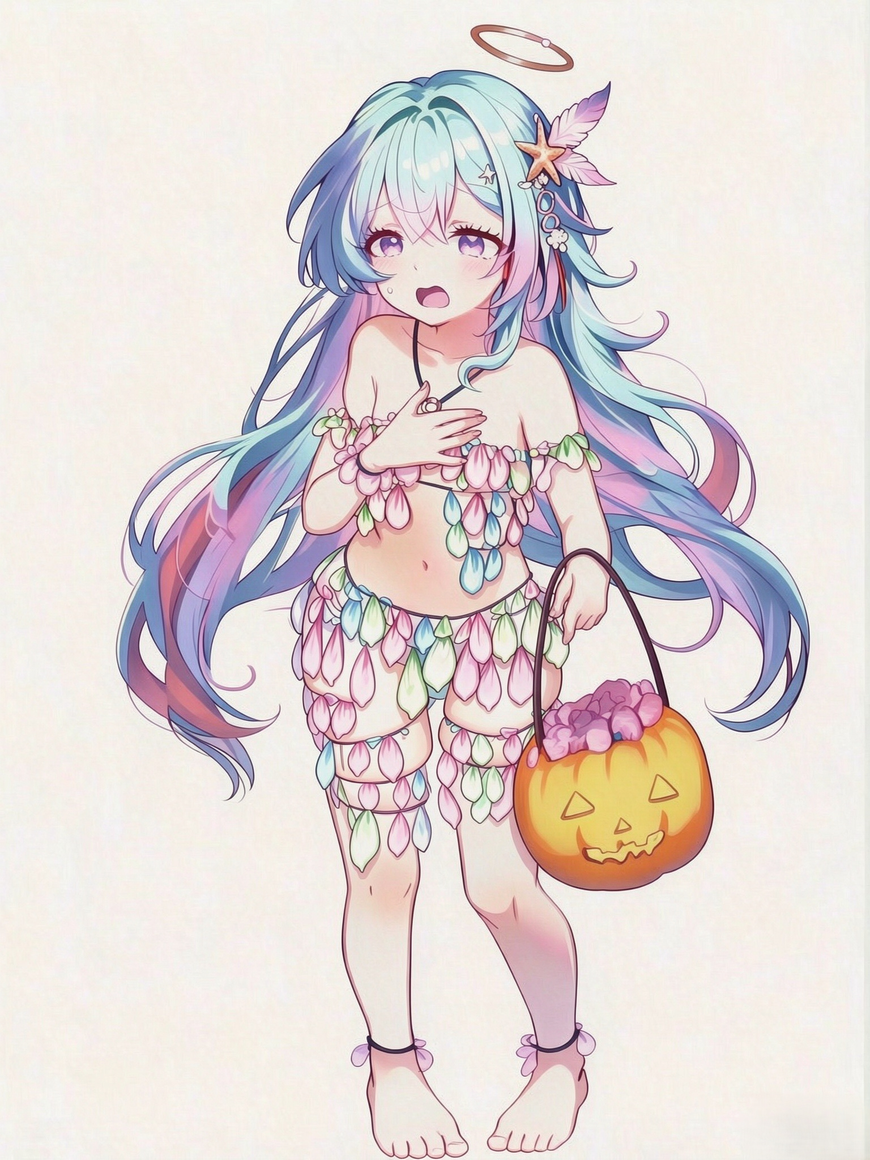
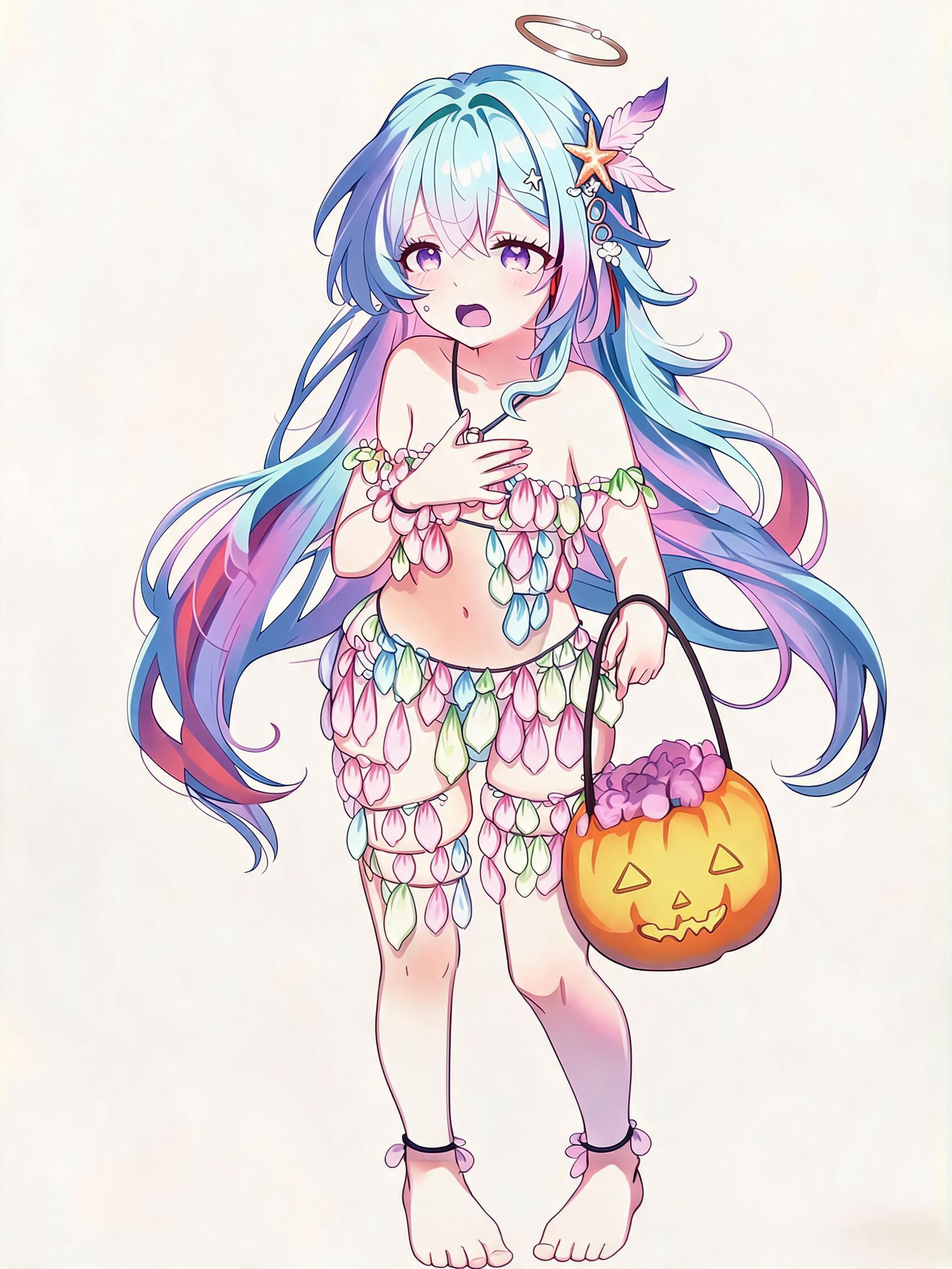
chore: 同步 preprocess GPU 脚本改名 preprocess-v7 -gpu.py 去空格为 preprocess-v7-gpu.py

diff --git a/preprocess-v7-gpu.py b/preprocess-v7-gpu.py
@@ -1,0 +1,245 @@
+"""
+GPU 抠白底：assets-raw/ → taozi-pet/incoming-assets/（透明 PNG，默认全量）
+
+格式的单一契约：
+    <任意格式>  ──rename──▶  <state>-NN.jpg  ──preprocess──▶  <state>-NN.png
+
+输入支持 png / jpg / jpeg / webp / bmp（PIL 按内容解码，扩展名不必可信）；
+输出恒为透明 png —— 抠图结果带 alpha 通道，只有 png 存得下。
+上游 rename-assets.py 已把源收敛为 .jpg，所以这里吃到的通常就是 jpg。
+
+用 BiRefNet 在 CUDA 上推理生成基础 alpha，再叠加三步后处理保证 QA 兼容：
+  1) 保护色（肤色 / 南瓜色，含 2px 膨胀）
+  2) 保留主体连通块 + 可信的分离部件（头顶光环）
+  3) 清理最边缘 2px 前景
+
+光环浮在头顶、与身体不相连，面积只有主体的 0.5%~0.7% 且位于画面顶部，
+按"只留最大块"的朴素规则会被整块删掉，故第 2 步用「面积 + 置信度」双闸门
+把它与噪点区分开（详见 keep_largest_connected 注释）。
+
+保护色对肤色区做 2px 膨胀，可挽回手部/高光边缘的浅色像素，
+避免 happy/starfish-wave 等挥手状态的手颜色被“洗掉”。
+无 GPU 时自动退 CPU（也可 --cpu 强制）。
+
+用法:
+  python preprocess-v7-gpu.py              # 处理 assets-raw 全部帧
+  python preprocess-v7-gpu.py walk-01.jpg  # 只处理指定文件
+  python preprocess-v7-gpu.py --states walk sleep   # 只处理指定状态
+  python preprocess-v7-gpu.py --cpu        # 强制 CPU 推理
+
+环境: conda activate my_project（torch + CUDA）
+模型: ZhengPeng7/BiRefNet
+"""
+import os
+# 国内环境：让 HF 下载走镜像，避免 huggingface.co 直连超时
+os.environ.setdefault('HF_ENDPOINT', 'https://hf-mirror.com')
+
+import numpy as np
+from PIL import Image
+from scipy import ndimage
+
+INPUT_DIR = r'D:\Documents\Doubao\chats\2026-08-12\new-chat\assets-raw'
+OUTPUT_DIR = r'D:\Documents\Doubao\chats\2026-08-12\new-chat\taozi-pet\incoming-assets'
+
+# 可识别的输入格式（源导出常是 jpg；扩展名不可信，PIL 按内容解码）
+IMG_EXTS = ('.png', '.jpg', '.jpeg', '.webp', '.bmp')
+
+BG_THRESHOLD = 28
+# BiRefNet 在 1024 边长上训练；大图等比缩放到此尺寸推理，再还原
+MODEL_SIZE = 1024
+
+# ---- GPU 模型（懒加载单例，进程内只加载一次）----
+_MODEL = None
+
+def get_model():
+    """加载 BiRefNet 到 CUDA（无 GPU 自动退 CPU）。"""
+    global _MODEL
+    if _MODEL is not None:
+        return _MODEL
+    import torch
+    from transformers import AutoModelForImageSegmentation
+    device = 'cuda' if torch.cuda.is_available() else 'cpu'
+    if device == 'cuda':
+        cap = torch.cuda.get_device_properties(0).total_memory / 1024**3
+        print(f'  [model] loading BiRefNet on cuda ({torch.cuda.get_device_name(0)}, {cap:.1f}GB) ...')
+    else:
+        print('  [model] loading BiRefNet on CPU (no CUDA) ...')
+    model = AutoModelForImageSegmentation.from_pretrained(
+        'ZhengPeng7/BiRefNet', trust_remote_code=True
+    )
+    model.to(device)
+    model.float()  # 权重可能以 fp16 载入，统一转 fp32 避免 half/float 不匹配
+    model.eval()
+    _MODEL = (model, device)
+    return _MODEL
+
+def rmbg_alpha(rgba_pil):
+    """返回与原图同尺寸的 uint8 alpha (0-255)，前景=255。GPU 推理。"""
+    import torch
+    from torchvision.transforms.functional import to_tensor, resize
+    model, device = get_model()
+    img = rgba_pil.convert('RGB')
+    w, h = img.size
+    # 等比缩放到模型输入（最长边 1024）
+    if max(w, h) > MODEL_SIZE:
+        scale = MODEL_SIZE / max(w, h)
+        tw, th = int(round(w * scale)), int(round(h * scale))
+    else:
+        tw, th = w, h
+    inp = to_tensor(resize(img, [th, tw])).unsqueeze(0).to(device)
+    with torch.no_grad():
+        preds = model(inp)
+    out = preds[-1] if isinstance(preds, (list, tuple)) else preds
+    # 压到 2D：[B,1,H,W] -> [H,W]
+    while out.dim() > 2:
+        out = out[0]
+    prob = torch.sigmoid(out).cpu().float().numpy().astype(np.float32)
+    # 还原到原图尺寸
+    prob_img = Image.fromarray((prob * 255).clip(0, 255).astype('uint8')).resize((w, h), Image.BILINEAR)
+    return np.asarray(prob_img).astype(np.uint8)
+
+
+# ---- v7 后处理（保 QA 兼容）----
+def get_protected_mask(arr, alpha):
+    r = arr[:, :, 0].astype(int)
+    g = arr[:, :, 1].astype(int)
+    b = arr[:, :, 2].astype(int)
+    # 肤色保护：覆盖偏粉/浅的肤色高光，避免手部阴影或浅色手指被 BiRefNet 低置信删除
+    skin = (r > 150) & (g > 110) & (b > 70) & (r >= g) & (g >= b) & ((r - b) > 1)
+    pumpkin = (r > 170) & (g > 110) & (b < 140) & ((r - b) > 70)
+    return (skin | pumpkin) & (alpha > 16)
+
+# 分离部件（头顶光环等）保留阈值。
+# 实测 8 个状态：光环 面积占全图 0.148%~0.266%、平均置信度 187~196；
+#               噪点 面积占全图 ≤0.026%、平均置信度 ≤93。
+# 两个闸门各有约 2 倍余量，可稳定区分「小而可信的部件」与「噪点」。
+PART_AREA_RATIO = 0.001   # 分离部件最小面积（占全图比例）
+PART_MEAN_ALPHA = 150     # 分离部件最低平均置信度
+
+
+def keep_largest_connected(alpha):
+    """保留主体连通块，以及可信的分离部件（如头顶光环）。
+
+    命中任一条件即保留：
+      1) 面积最大的块 —— 主体
+      2) 面积 > 主体 30% 且距画面中心 < 0.4h —— 与主体断开的大部件
+      3) 面积 ≥ 全图 0.1% 且平均置信度 ≥ 150 —— 小而可信的分离部件（光环）
+
+    第 3 条专为光环而设：它浮在头顶、与身体不相连，面积仅主体的 0.5%~0.7%，
+    位置又在画面顶部（距中心约 0.47h > 0.4h），按旧规则两条判据同时不满足，
+    会被当成噪声整块删除。面积用「占全图比例」而非绝对像素，兼顾
+    1536×2048 与 1680×2240 两种源分辨率。
+    """
+    h, w = alpha.shape
+    fg = alpha > 16
+    labeled, num = ndimage.label(fg)
+    if num == 0:
+        return alpha
+    labs = range(1, num + 1)
+    sizes = ndimage.sum(fg, labeled, labs)
+    centers = ndimage.center_of_mass(fg, labeled, labs)
+    means = ndimage.mean(alpha, labeled, labs)
+    max_area = float(sizes.max())
+    min_area = h * w * PART_AREA_RATIO
+    keep = np.zeros((h, w), dtype=bool)
+    for lab in labs:
+        area = float(sizes[lab - 1])
+        if area == max_area:
+            keep |= (labeled == lab)  # 主体
+        elif area > max_area * 0.3:
+            cy, cx = centers[lab - 1]  # 与主体断开的大部件：需靠近中心
+            if ((cy - h / 2) ** 2 + (cx - w / 2) ** 2) ** 0.5 < h * 0.4:
+                keep |= (labeled == lab)
+        elif area >= min_area and float(means[lab - 1]) >= PART_MEAN_ALPHA:
+            keep |= (labeled == lab)  # 小而可信的分离部件（光环）
+    new_alpha = np.zeros((h, w), dtype=np.uint8)
+    new_alpha[keep] = alpha[keep]
+    return new_alpha
+
+
+def process_image(input_path, output_path):
+    img = Image.open(input_path).convert('RGBA')
+    arr = np.array(img)
+    alpha = arr[:, :, 3].copy()
+
+    # 1) GPU 模型抠图（基础 alpha）
+    model_alpha = rmbg_alpha(img)
+    alpha = model_alpha.copy()
+
+    # 2) 保护色：被保护的像素强制为前景（防止模型把肤色/南瓜色误删）
+    # 对保护区做少量膨胀，可挽回 BiRefNet 在手部/高光边缘丢失的相邻有色像素，
+    # 让 happy/starfish-wave 等挥手状态的手指颜色不被“洗掉”。
+    # 先去掉贴边保护区，避免膨胀后触发 process-assets 的 SUBJECT_TOUCHES_BORDER。
+    protected = get_protected_mask(arr, alpha)
+    border = 4
+    protected[:border, :] = False
+    protected[-border:, :] = False
+    protected[:, :border] = False
+    protected[:, -border:] = False
+    protected = ndimage.binary_dilation(protected, iterations=2)
+    alpha[protected] = 255
+
+    # 3) 保留中心最大连通块
+    alpha = keep_largest_connected(alpha)
+
+    # 4) 清理最边缘 2px 前景，避免 peek 等“贴边出场”状态触发 process-assets 的 SUBJECT_TOUCHES_BORDER。
+    # 贴边帧的源图本身就切到画面外，留 2px 透明边不影响观感。
+    border = 2
+    alpha[:border, :] = 0
+    alpha[-border:, :] = 0
+    alpha[:, :border] = 0
+    alpha[:, -border:] = 0
+
+    arr[:, :, 3] = alpha
+    Image.fromarray(arr).save(output_path)
+
+# 默认 --states 为 None → 处理 assets-raw 全部帧（GPU 全量扣图）。
+# idle/blink 的 SCALE_DRIFT 由下游 assemble 的帧间尺寸对齐处理，CPU 版仅作最后手段。
+
+def _state_of(fname):
+    """从 'walk-01.png' / 'pet-head-03.jpg' 取状态前缀。"""
+    return fname.rsplit('-', 1)[0]
+
+
+def _out_name(fname):
+    """输出统一为透明 png（需 alpha 通道），与输入格式无关。"""
+    return os.path.splitext(fname)[0] + '.png'
+
+
+def main():
+    import argparse
+    ap = argparse.ArgumentParser(description="GPU 抠图：assets-raw → taozi-pet/incoming-assets（默认全量）")
+    ap.add_argument('files', nargs='*', help='指定文件（默认处理 --states 全部）')
+    ap.add_argument('--states', nargs='*', default=None,
+                    help='只处理这些状态（默认 None=全部状态；帧间尺寸漂移由下游 assemble 归一化收口）')
+    ap.add_argument('--cpu', action='store_true', help='强制 CPU 推理（无 GPU 兜底）')
+    args = ap.parse_args()
+    if args.cpu:
+        os.environ['CUDA_VISIBLE_DEVICES'] = '-1'
+    os.makedirs(OUTPUT_DIR, exist_ok=True)
+    states = set(args.states) if args.states else None
+    if args.files:
+        files = [f for f in args.files if f.lower().endswith(IMG_EXTS)]
+        print(f'Selected files: {len(files)} files')
+    else:
+        files = sorted([f for f in os.listdir(INPUT_DIR)
+                        if f.lower().endswith(IMG_EXTS) and (states is None or _state_of(f) in states)])
+        label = sorted(states) if states else 'ALL'
+        print(f'Processing states {label}: {len(files)} files')
+    success = 0
+    for i, fname in enumerate(files):
+        in_path = os.path.join(INPUT_DIR, fname)
+        out_path = os.path.join(OUTPUT_DIR, _out_name(fname))
+        if not os.path.exists(in_path):
+            print(f'  SKIP (not found): {fname}')
+            continue
+        try:
+            process_image(in_path, out_path)
+            success += 1
+            print(f'  [{i+1}/{len(files)}] {fname} OK')
+        except Exception as e:
+            print(f'  ERROR {fname}: {e}')
+    print(f'Done: {success}/{len(files)} succeeded')
+
+if __name__ == '__main__':
+    main()

diff --git a/preprocess-v7-cpu.py b/preprocess-v7-cpu.py
@@ -1,10 +1,10 @@
 """
 CPU 抠白底（v7 洪水填充算法）：assets-raw/ → taozi-pet/incoming-assets/（透明 PNG）
 
-仅从左/右/上边缘发起洪水填充（下方不发起，保护脚底），叠加保护色障碍物、
-主体连通块 + 可信分离部件（头顶光环）保留。
+从四边发起洪水填充删除与边缘连通的近背景像素（底边也发起），叠加保护色
+障碍物、主体连通块 + 可信分离部件（头顶光环）保留。
 
-GPU 版（preprocess-v7 -gpu.py）为默认路径，本脚本仅作**应急兜底**：
+GPU 版（preprocess-v7-gpu.py）为默认路径，本脚本仅作**应急兜底**：
 默认只处理 DEFAULT_STATES 列出的 8 个状态，walk/sleep/sad/peek 需显式 --states 指定。
 
 输入支持 png / jpg / jpeg / webp / bmp（PIL 按内容解码，扩展名不可信），
@@ -37,7 +37,7 @@ def get_protected_mask(arr, alpha):
     return (skin | pumpkin) & (alpha > 16)
 
 def flood_fill_from_edges(arr, alpha, protected=None):
-    """删与上/左/右三边连通的近背景像素（下方不发起，保护脚底）。
+    """删与四边连通的近背景像素（底边也发起）。
     scipy.ndimage.label 向量化替代 Python deque BFS（等价且快 10×+）。"""
     from scipy import ndimage
     h, w = arr.shape[:2]
@@ -53,10 +53,11 @@ def flood_fill_from_edges(arr, alpha, protected=None):
     labeled, num = ndimage.label(is_bg)
     if num == 0:
         return np.zeros((h, w), dtype=bool)
-    # 只删与上/左/右边缘连通的块（底边不发起）
+    # 删与上/左/右/下边缘连通的块
     edge_labels = set(np.unique(labeled[0, :]))
     edge_labels |= set(np.unique(labeled[:, 0]))
     edge_labels |= set(np.unique(labeled[:, w - 1]))
+    edge_labels |= set(np.unique(labeled[h - 1, :]))
     edge_labels.discard(0)
     if not edge_labels:
         return np.zeros((h, w), dtype=bool)
@@ -108,7 +109,7 @@ def process_image(input_path, output_path):
     alpha = arr[:, :, 3].copy()
     protected = get_protected_mask(arr, alpha)  # 一帧只算一次，供各步复用
 
-    # 1. 洪水填充（只从左/右/上边缘发起，删背景）
+    # 1. 洪水填充（从四边发起，删与边缘连通的近背景像素）
     delete_mask = flood_fill_from_edges(arr, alpha, protected)
     alpha[delete_mask] = 0
     # 2. 保留中心最大连通块

diff --git a/make-graphics.py b/make-graphics.py
@@ -58,7 +58,7 @@ def load_preprocess():
     if _PROCESSOR_CACHE is not None:
         return _PROCESSOR_CACHE
     here = os.path.dirname(os.path.abspath(__file__)) or '.'
-    path = os.path.join(here, 'preprocess-v7 -gpu.py')
+    path = os.path.join(here, 'preprocess-v7-gpu.py')
     spec = importlib.util.spec_from_file_location('preprocess_v7', path)
     module = importlib.util.module_from_spec(spec)
     spec.loader.exec_module(module)  # 触发 torch / BiRefNet 依赖检查
